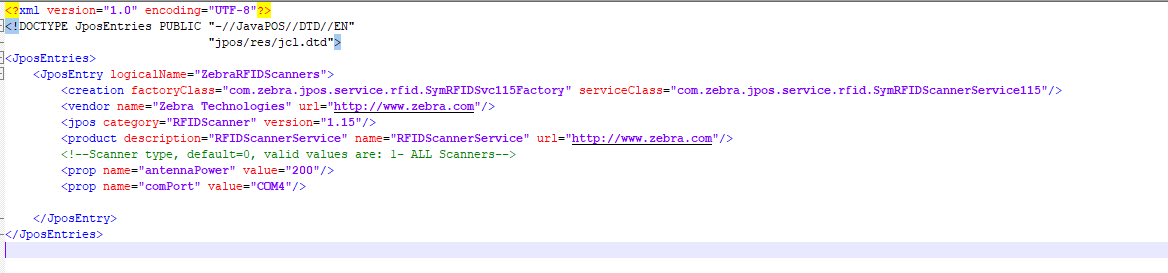
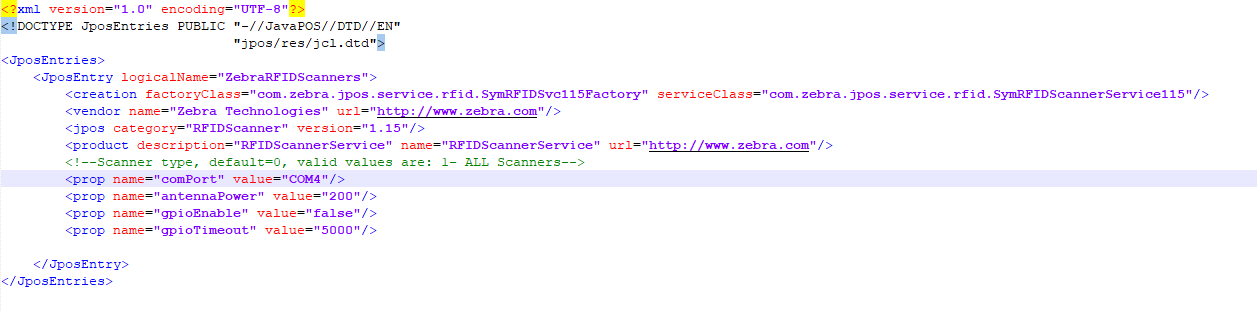
Updated techDoc for JPOS GPI support

Changed region(s): [[0.0, 0.1758, 0.9555, 0.7619], [0.0, 0.0, 1.0, 0.1758], [0.0, 0.7912, 0.0925, 0.9377]]

diff --git a/dcs/rfid/jposFXP20/getting-started/index.html b/dcs/rfid/jposFXP20/getting-started/index.html
@@ -176,7 +176,7 @@
                                                     <li><Strong>jpos-rfidscanner-test.jar : </Strong> Contains a sample application to demonstrate functionality.</li>
                                                     <li><strong>Jpos.xml : </strong> A JPOS configuration file that contains the logical device name.</li>
                                                     <li><strong>javaPosTest.bat : </Strong> A batch file to run the sample application.</li>
-                                                    <li><strong>jpos_trace.properties : </strong> This file allows users to configure log file settings such as logFilePath and logFileName. The jpos_trace.properties file should be located inside the<strong> Lib </strong> folder.</li>
+                                                    <li><strong>jpos_trace.properties : </strong> This file allows users to configure log file settings such as logFilePath and logFileName. The jpos_trace.properties file should be located inside the<strong> bin </strong> folder.</li>
                                                 </ul> 
     
                                                 <h2 id="sampleapplication" class="anchor"><a class="heading-anchor" href="#fullapp"><span></span></a>Creating a Project Using IntelliJ IDEA</h2>
@@ -216,6 +216,14 @@
 <pre class="prettyprint"><code>
     &lt;!-- If the antennaPower property is not set, it will default to 27 dBm. --&gt;
     &lt;prop name=&quot;antennaPower&quot; value=&quot;200&quot;/&gt;
+</code></pre>
+                        <li>Configure GPI enable setting to enable/disable GPI-based inventory. When gpioEnable is set to true, inventory for EPC IDs (with or without a timer) will start reporting tags only when GPI 1 is triggered, and it will stop after the specified timeout (gpioTimeout).</li>
+
+<pre class="prettyprint"><code>
+    &lt;!-- GPI based Inventory – enabled when value is set to "true", disabled when value is set to "false".--&gt;
+    &lt;prop name=&quot;gpioEnable&quot; value=&quot;true&quot;/&gt;
+    &lt;!-- Inventory duration in milliseconds for each trigger.--&gt;
+    &lt;prop name=&quot;gpioTimeout&quot; value=&quot;5000&quot;/&gt;
 </code></pre>
 <h4>Example of jpos.xml file.</h4>
 
